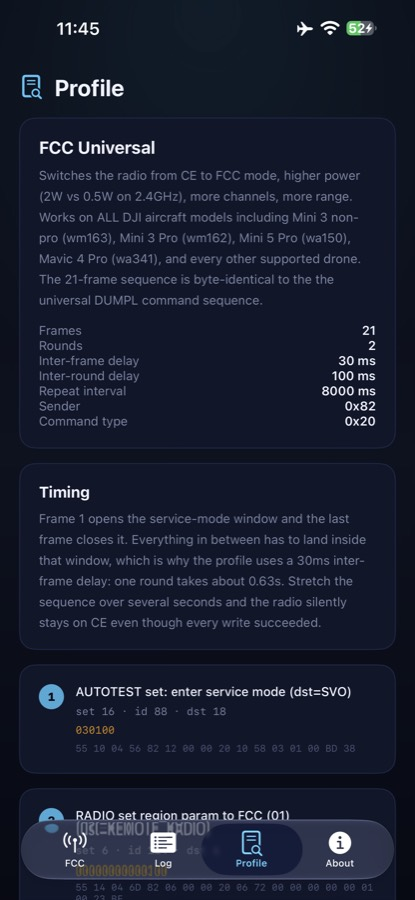
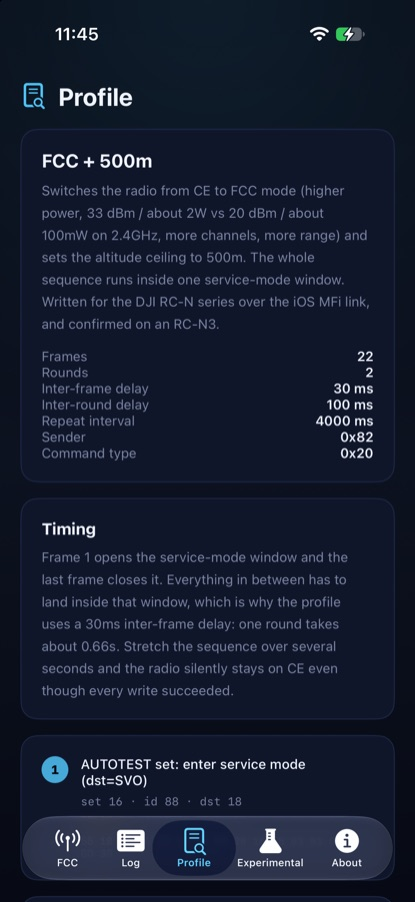
Docs: refresh the Profile and About screenshots for FCC Unlock (#7)
The two shots in docs/screenshots still showed the pre-rename title
("FreeFCC for iOS"), the old "FCC Universal" profile with the 2W vs 0.5W
line, and an About text that mentioned an Android build. Retaken from the
current build (v1.6): "FCC + 500m" with 22 frames, "FCC Unlock for iOS",
the PolyForm license row and the five-tab bar. Same 415 px width as the
other shots.

RootView now honours a -initialTab N launch argument (0 FCC to 4 About,
default unchanged) so the screenshots can be taken from a headless
simulator: xcrun simctl launch <udid> com.andreapiani.freefcc -initialTab 4.
The Xcode 27 beta ships no Simulator.app to tap on.

Closes #7

Claude-Session: https://claude.ai/code/session_012JHADR1yiejyDEuKe9cPYd

diff --git a/FreeFCC/App/FreeFCCApp.swift b/FreeFCC/App/FreeFCCApp.swift
@@ -29,18 +29,29 @@ struct FreeFCCApp: App {
 }
 
 struct RootView: View {
+    /// Launching with `-initialTab N` opens tab N (0 FCC, 1 Log, 2 Profile,
+    /// 3 Experimental, 4 About); the default is FCC. This is how the README
+    /// screenshots are taken from a headless simulator:
+    /// `xcrun simctl launch <udid> com.andreapiani.freefcc -initialTab 4`.
+    @State private var selection = UserDefaults.standard.integer(forKey: "initialTab")
+
     var body: some View {
-        TabView {
+        TabView(selection: $selection) {
             FccPage()
                 .tabItem { Label("FCC", systemImage: "antenna.radiowaves.left.and.right") }
+                .tag(0)
             LogPage()
                 .tabItem { Label("Log", systemImage: "list.bullet.rectangle") }
+                .tag(1)
             ProfilePage()
                 .tabItem { Label("Profile", systemImage: "doc.text.magnifyingglass") }
+                .tag(2)
             ExperimentalPage()
                 .tabItem { Label("Experimental", systemImage: "flask") }
+                .tag(3)
             AboutPage()
                 .tabItem { Label("About", systemImage: "info.circle") }
+                .tag(4)
         }
     }
 }
